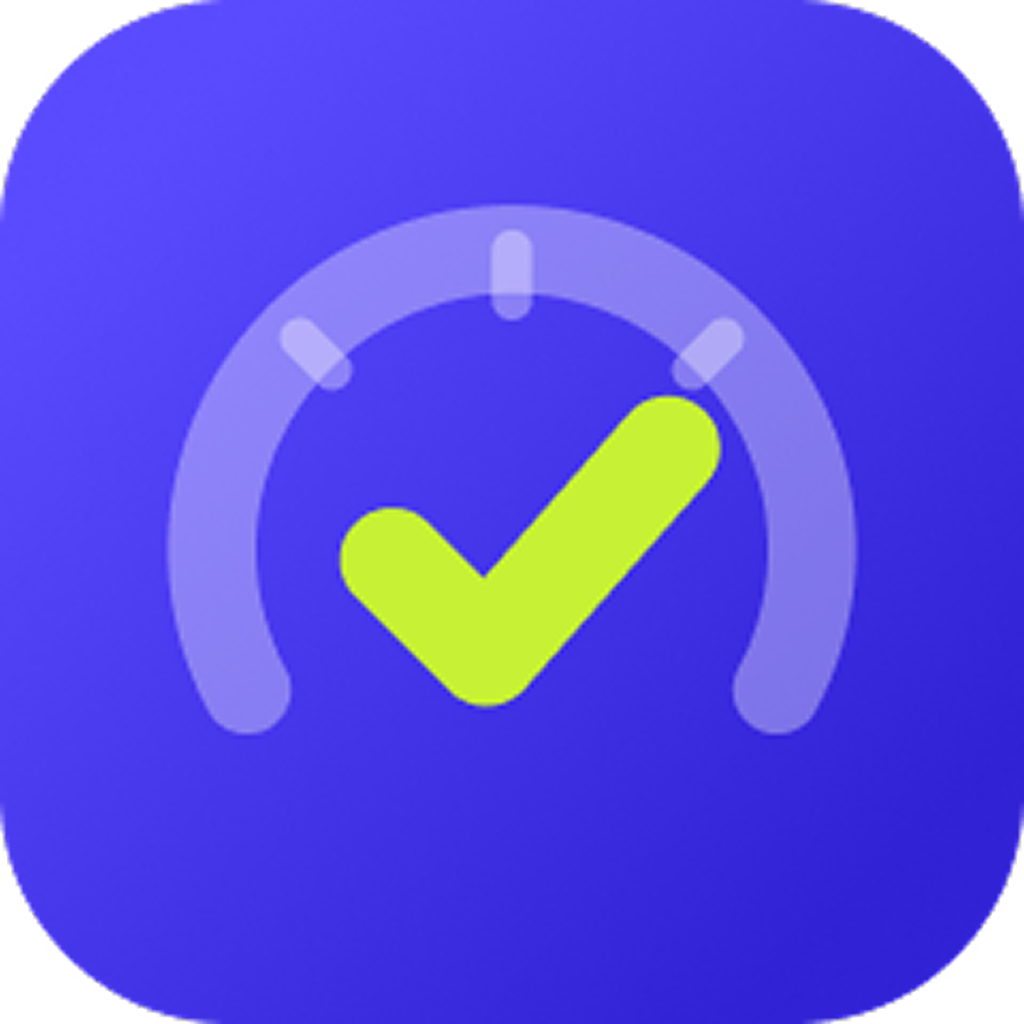
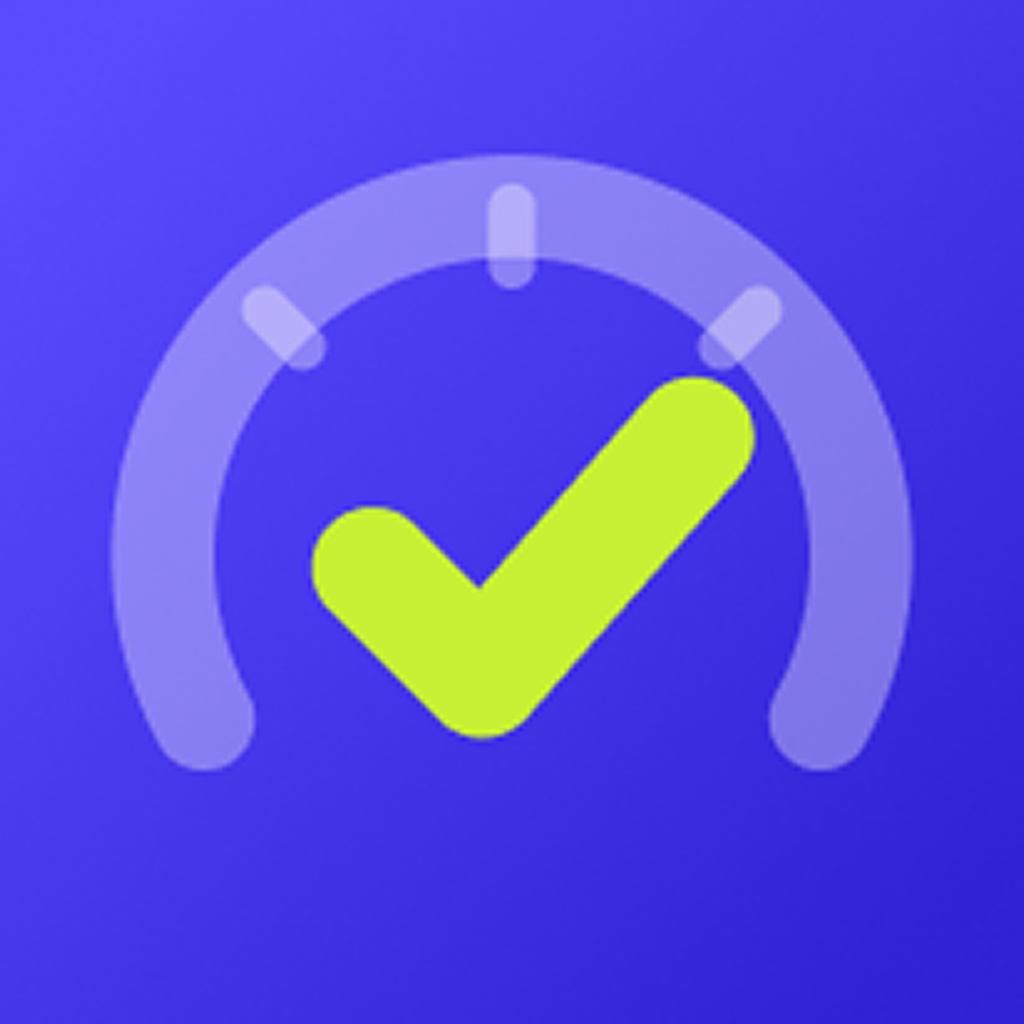
feat(mobile): ícones do app e splash screen
Claude-Session: https://claude.ai/code/session_01An8hmsShpK2jAFBnfFzBna

diff --git a/apps/mobile/app.config.ts b/apps/mobile/app.config.ts
@@ -13,13 +13,16 @@ const variants: Record<AppEnv, { name: string; id: string }> = {
 
 const variant = variants[APP_ENV];
 
+// Roxo da marca: fundo da splash e do ícone adaptativo do Android.
+const PURPLE = '#4637EB';
+
 const config: ExpoConfig = {
   name: variant.name,
   slug: 'ta-em-dia',
   scheme: 'taemdia',
   version: '0.1.0',
   orientation: 'portrait',
-  icon: './assets/icon.png',
+  icon: './assets/images/icon.png',
   userInterfaceStyle: 'automatic',
   ios: {
     bundleIdentifier: variant.id,
@@ -28,13 +31,24 @@ const config: ExpoConfig = {
   android: {
     package: variant.id,
     adaptiveIcon: {
-      backgroundColor: '#E6F4FE',
-      foregroundImage: './assets/android-icon-foreground.png',
-      backgroundImage: './assets/android-icon-background.png',
-      monochromeImage: './assets/android-icon-monochrome.png',
+      backgroundColor: PURPLE,
+      foregroundImage: './assets/images/adaptive-icon.png',
     },
   },
-  plugins: ['expo-router', 'expo-sqlite', 'expo-secure-store', 'expo-updates'],
+  plugins: [
+    'expo-router',
+    'expo-sqlite',
+    'expo-secure-store',
+    'expo-updates',
+    [
+      'expo-splash-screen',
+      {
+        image: './assets/images/splash-icon.png',
+        imageWidth: 160,
+        backgroundColor: PURPLE,
+      },
+    ],
+  ],
   owner: 'guiborim',
   updates: { url: 'https://u.expo.dev/ccd0ca56-3132-4ae9-b6e0-b6e858af14cb' },
   runtimeVersion: { policy: 'appVersion' },

diff --git a/apps/mobile/src/app/_layout.tsx b/apps/mobile/src/app/_layout.tsx
@@ -1,5 +1,14 @@
 import { Stack } from 'expo-router';
+import * as SplashScreen from 'expo-splash-screen';
+import { useEffect } from 'react';
+
+// Mantém a splash até o app estar pronto (depois: banco local, sessão).
+SplashScreen.preventAutoHideAsync();
 
 export default function RootLayout() {
+  useEffect(() => {
+    SplashScreen.hideAsync();
+  }, []);
+
   return <Stack screenOptions={{ headerShown: false }} />;
 }
